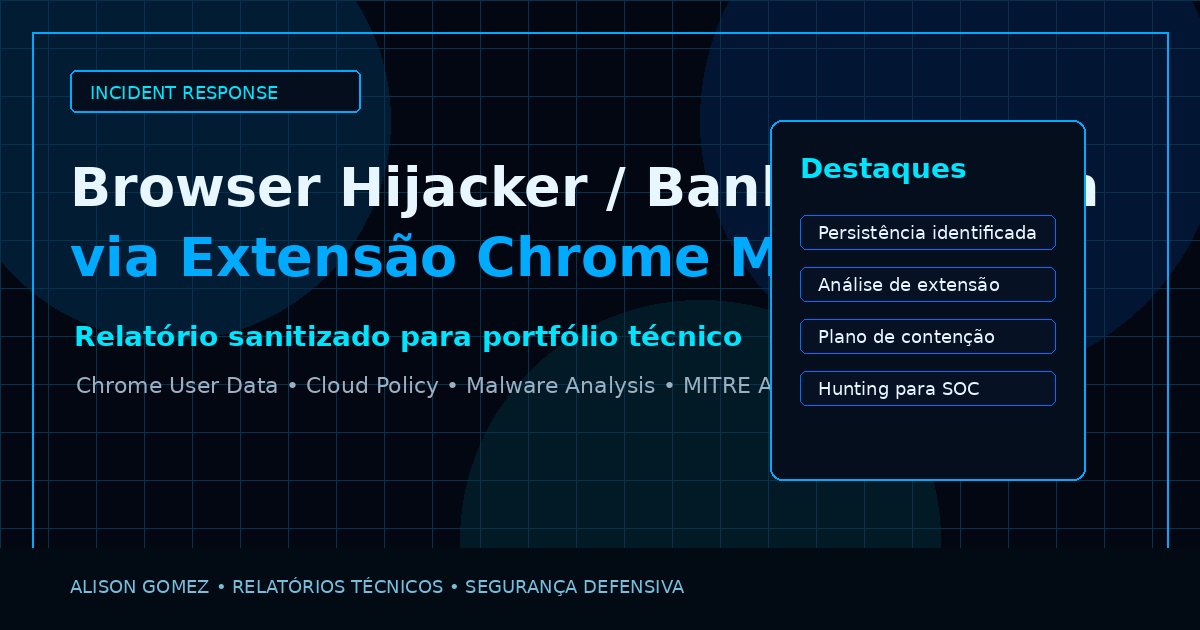
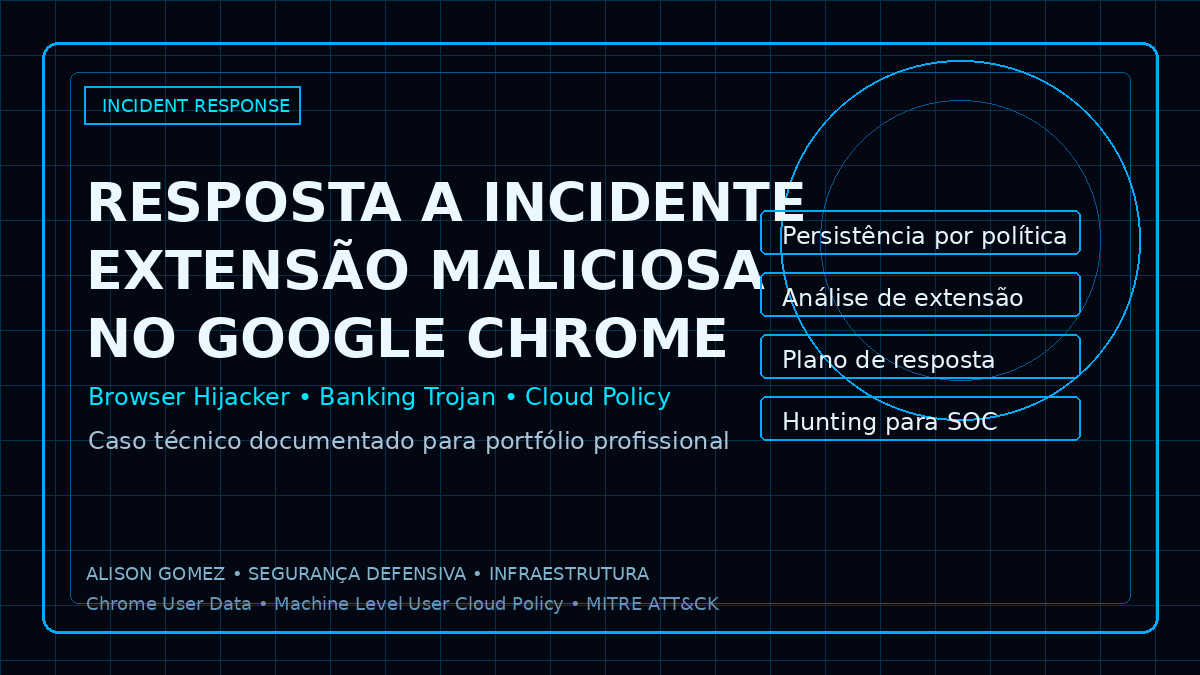
Corrigindo pagina do relatorio tecnico

diff --git a/style.css b/style.css
@@ -3060,3 +3060,72 @@ body {
     display: none !important;
   }
 }
+
+
+/* =========================================================
+   V18 - RELATÓRIO: TEXTO PROFISSIONAL E IMAGEM SEM CORTE
+========================================================= */
+
+.report-thumb {
+  height: 240px !important;
+  padding: 16px !important;
+  background:
+    radial-gradient(circle at 20% 20%, rgba(0, 170, 255, 0.12), transparent 36%),
+    rgba(1, 7, 16, 0.88) !important;
+}
+
+.report-thumb img,
+.report-list-card img {
+  width: 100% !important;
+  height: 100% !important;
+  object-fit: contain !important;
+  object-position: center !important;
+  border: 0 !important;
+}
+
+.report-detail-cover-wrap {
+  width: 100% !important;
+  max-height: 460px !important;
+  padding: 18px !important;
+  background:
+    radial-gradient(circle at 30% 20%, rgba(0, 170, 255, 0.10), transparent 36%),
+    rgba(1, 7, 16, 0.86) !important;
+  overflow: hidden !important;
+}
+
+.report-detail-cover {
+  width: 100% !important;
+  height: auto !important;
+  max-height: 420px !important;
+  object-fit: contain !important;
+  object-position: center !important;
+  display: block !important;
+}
+
+.report-aside-card h3 {
+  text-transform: none !important;
+}
+
+.report-action-stack a {
+  text-align: center !important;
+}
+
+.report-empty {
+  line-height: 1.8 !important;
+}
+
+@media (max-width: 720px) {
+  .report-thumb {
+    height: 190px !important;
+    padding: 12px !important;
+  }
+
+  .report-detail-cover-wrap {
+    max-height: 300px !important;
+    padding: 12px !important;
+  }
+
+  .report-detail-cover {
+    max-height: 270px !important;
+  }
+}

diff --git a/report.html b/report.html
@@ -6,7 +6,7 @@
 
   <title>Estudo Técnico | Alison Gomez</title>
 
-  <meta name="description" content="Detalhes de estudo técnico, relatório sanitizado e resposta a incidente." />
+  <meta name="description" content="Detalhes de estudo técnico, relatório e resposta a incidente." />
 
   <link rel="icon" type="image/png" href="assets/img/favicon.png" />
   <link rel="stylesheet" href="style.css" />
@@ -52,7 +52,7 @@
       const safeItems = Array.isArray(items) ? items : [];
 
       if (!safeItems.length) {
-        return `<p>Conteúdo em preparação.</p>`;
+        return `<p>Informações em revisão para publicação no portfólio.</p>`;
       }
 
       return `<ul>${safeItems.map(item => `<li>${item}</li>`).join("")}</ul>`;
@@ -73,7 +73,6 @@
       const actions = details.actions || report.actions || [];
       const mitre = details.mitre || report.mitre || [];
       const lessons = details.lessons || report.lessons || [];
-      const scope = details.scope || "Relatório sanitizado para portfólio técnico. Evidências sensíveis, dados de clientes e artefatos brutos não são publicados.";
 
       document.title = `${report.title} | Alison Gomez`;
 
@@ -92,7 +91,7 @@
               <div class="report-card-meta">
                 <span class="report-badge">${report.type || "Estudo Técnico"}</span>
                 <span class="report-severity">${report.severity || "N/A"}</span>
-                <span class="report-status">${report.status || "Publicado"}</span>
+                <span class="report-status">${report.status || "Relatório Técnico"}</span>
                 <span class="report-badge">${report.date || "Sem data"}</span>
               </div>
 
@@ -132,11 +131,11 @@
 
           <aside>
             <div class="report-aside-card">
-              <h3>Download</h3>
-              <p>Relatório sanitizado para portfólio. Evidências completas devem permanecer em repositório privado.</p>
+              <h3>Relatório</h3>
+              <p>Documento técnico com a investigação, evidências, análise e recomendações do caso.</p>
 
               <div class="report-action-stack">
-                <a href="${report.pdf}" target="_blank" rel="noreferrer">Baixar PDF sanitizado</a>
+                <a href="${report.pdf}" target="_blank" rel="noreferrer">Baixar relatório</a>
                 <a href="reports/">Voltar ao catálogo</a>
               </div>
             </div>
@@ -144,14 +143,9 @@
             <div class="report-aside-card">
               <h3>Resumo</h3>
               <p><strong>Severidade:</strong> ${report.severity || "N/A"}</p>
-              <p><strong>Status:</strong> ${report.status || "Publicado"}</p>
+              <p><strong>Status:</strong> ${report.status || "Relatório Técnico"}</p>
               <p><strong>Tipo:</strong> ${report.type || "Estudo técnico"}</p>
-              <p><strong>Tamanho:</strong> ${report.readTime || "Relatório técnico"}</p>
-            </div>
-
-            <div class="report-aside-card">
-              <h3>Escopo público</h3>
-              <p>${scope}</p>
+              <p><strong>Data:</strong> ${report.date || "Sem data"}</p>
             </div>
           </aside>
         </div>

diff --git a/report/index.html b/report/index.html
@@ -7,7 +7,7 @@
 
   <title>Estudo Técnico | Alison Gomez</title>
 
-  <meta name="description" content="Detalhes de estudo técnico, relatório sanitizado e resposta a incidente." />
+  <meta name="description" content="Detalhes de estudo técnico, relatório e resposta a incidente." />
 
   <link rel="icon" type="image/png" href="assets/img/favicon.png" />
   <link rel="stylesheet" href="style.css" />
@@ -53,7 +53,7 @@
       const safeItems = Array.isArray(items) ? items : [];
 
       if (!safeItems.length) {
-        return `<p>Conteúdo em preparação.</p>`;
+        return `<p>Informações em revisão para publicação no portfólio.</p>`;
       }
 
       return `<ul>${safeItems.map(item => `<li>${item}</li>`).join("")}</ul>`;
@@ -74,7 +74,6 @@
       const actions = details.actions || report.actions || [];
       const mitre = details.mitre || report.mitre || [];
       const lessons = details.lessons || report.lessons || [];
-      const scope = details.scope || "Relatório sanitizado para portfólio técnico. Evidências sensíveis, dados de clientes e artefatos brutos não são publicados.";
 
       document.title = `${report.title} | Alison Gomez`;
 
@@ -93,7 +92,7 @@
               <div class="report-card-meta">
                 <span class="report-badge">${report.type || "Estudo Técnico"}</span>
                 <span class="report-severity">${report.severity || "N/A"}</span>
-                <span class="report-status">${report.status || "Publicado"}</span>
+                <span class="report-status">${report.status || "Relatório Técnico"}</span>
                 <span class="report-badge">${report.date || "Sem data"}</span>
               </div>
 
@@ -133,11 +132,11 @@
 
           <aside>
             <div class="report-aside-card">
-              <h3>Download</h3>
-              <p>Relatório sanitizado para portfólio. Evidências completas devem permanecer em repositório privado.</p>
+              <h3>Relatório</h3>
+              <p>Documento técnico com a investigação, evidências, análise e recomendações do caso.</p>
 
               <div class="report-action-stack">
-                <a href="${report.pdf}" target="_blank" rel="noreferrer">Baixar PDF sanitizado</a>
+                <a href="${report.pdf}" target="_blank" rel="noreferrer">Baixar relatório</a>
                 <a href="reports/">Voltar ao catálogo</a>
               </div>
             </div>
@@ -145,14 +144,9 @@
             <div class="report-aside-card">
               <h3>Resumo</h3>
               <p><strong>Severidade:</strong> ${report.severity || "N/A"}</p>
-              <p><strong>Status:</strong> ${report.status || "Publicado"}</p>
+              <p><strong>Status:</strong> ${report.status || "Relatório Técnico"}</p>
               <p><strong>Tipo:</strong> ${report.type || "Estudo técnico"}</p>
-              <p><strong>Tamanho:</strong> ${report.readTime || "Relatório técnico"}</p>
-            </div>
-
-            <div class="report-aside-card">
-              <h3>Escopo público</h3>
-              <p>${scope}</p>
+              <p><strong>Data:</strong> ${report.date || "Sem data"}</p>
             </div>
           </aside>
         </div>

diff --git a/index.html b/index.html
@@ -341,7 +341,7 @@
         <span class="section-tag">// ARQUIVO_006</span>
         <h2>Análises & Estudos</h2>
         <p class="section-subtitle">
-          Pesquisas, relatórios sanitizados, análises técnicas e documentações de casos reais para fortalecer conhecimento e promover segurança.
+          Pesquisas, relatórios técnicos, análises e documentações de casos reais para fortalecer conhecimento e promover segurança.
         </p>
       </div>
 
@@ -355,7 +355,7 @@
           <h3>Resposta a Incidente: Extensão Maliciosa no Chrome</h3>
 
           <p>
-            Estudo de caso sanitizado sobre investigação de browser hijacker / banking trojan via extensão maliciosa no Google Chrome,
+            Estudo de caso sobre investigação de browser hijacker / banking trojan via extensão maliciosa no Google Chrome,
             com análise de persistência por política/cloud policy, coleta de evidências, IOCs, contenção e mapeamento MITRE ATT&CK.
           </p>
 
@@ -363,7 +363,7 @@
             <span>SOC</span>
             <span>Malware</span>
             <span>Chrome</span>
-            <span>Cloud Policy</span>
+            <span>Chrome Policy</span>
             <span>MITRE ATT&CK</span>
           </div>
 

diff --git a/reports.html b/reports.html
@@ -39,7 +39,7 @@
       <span class="section-tag">// STUDIES_INDEX</span>
       <h2>Estudos & Relatórios</h2>
       <p class="section-subtitle">
-        Catálogo de estudos de caso sanitizados, resposta a incidentes, análise técnica e documentação operacional para SOC/Blue Team.
+        Catálogo de estudos de caso, resposta a incidentes, análise técnica e documentação operacional para SOC/Blue Team.
       </p>
     </div>
 
@@ -75,7 +75,7 @@
 
             <div class="project-links">
               <a href="report/?id=${report.id}">Ver estudo</a>
-              <a href="${report.pdf}" target="_blank" rel="noreferrer">Baixar PDF</a>
+              <a href="${report.pdf}" target="_blank" rel="noreferrer">Baixar relatório</a>
             </div>
           </div>
         </article>

diff --git a/reports/index.html b/reports/index.html
@@ -40,7 +40,7 @@
       <span class="section-tag">// STUDIES_INDEX</span>
       <h2>Estudos & Relatórios</h2>
       <p class="section-subtitle">
-        Catálogo de estudos de caso sanitizados, resposta a incidentes, análise técnica e documentação operacional para SOC/Blue Team.
+        Catálogo de estudos de caso, resposta a incidentes, análise técnica e documentação operacional para SOC/Blue Team.
       </p>
     </div>
 
@@ -76,7 +76,7 @@
 
             <div class="project-links">
               <a href="report/?id=${report.id}">Ver estudo</a>
-              <a href="${report.pdf}" target="_blank" rel="noreferrer">Baixar PDF</a>
+              <a href="${report.pdf}" target="_blank" rel="noreferrer">Baixar relatório</a>
             </div>
           </div>
         </article>